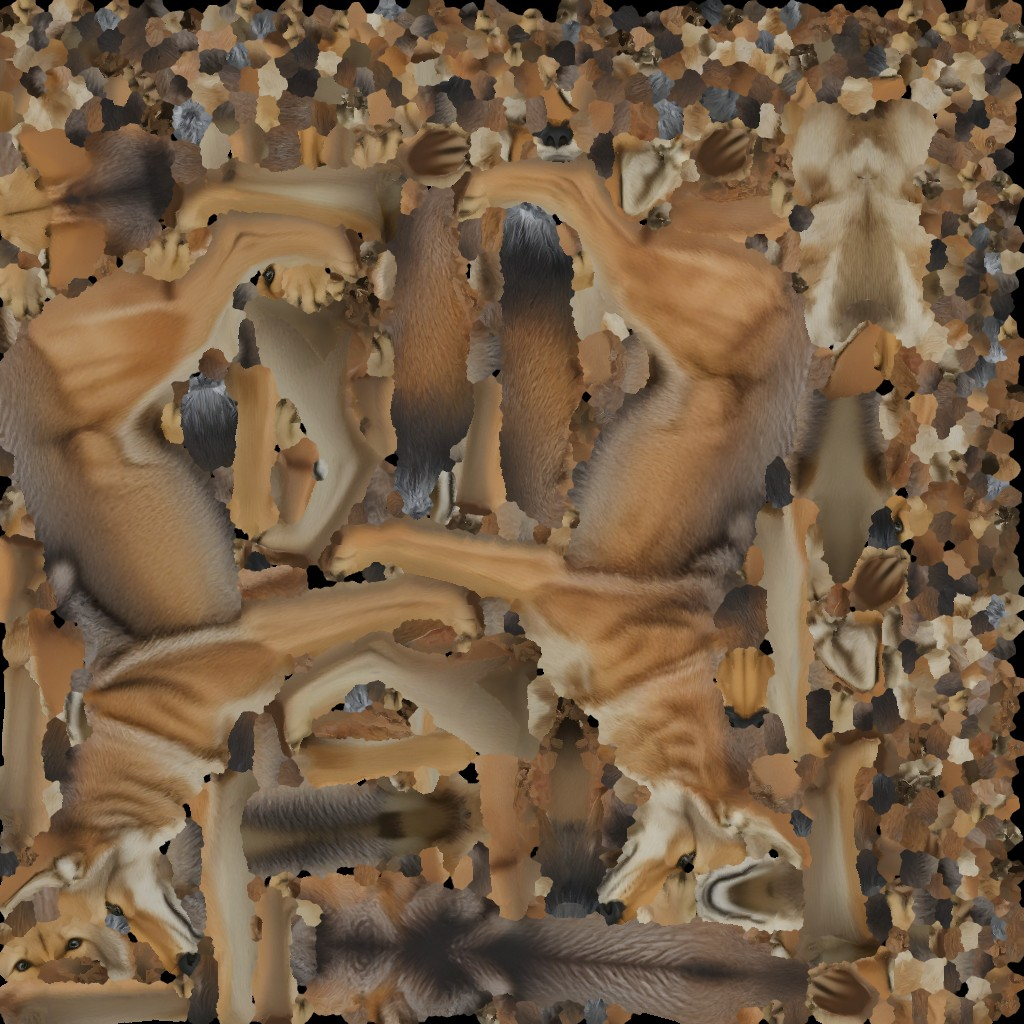
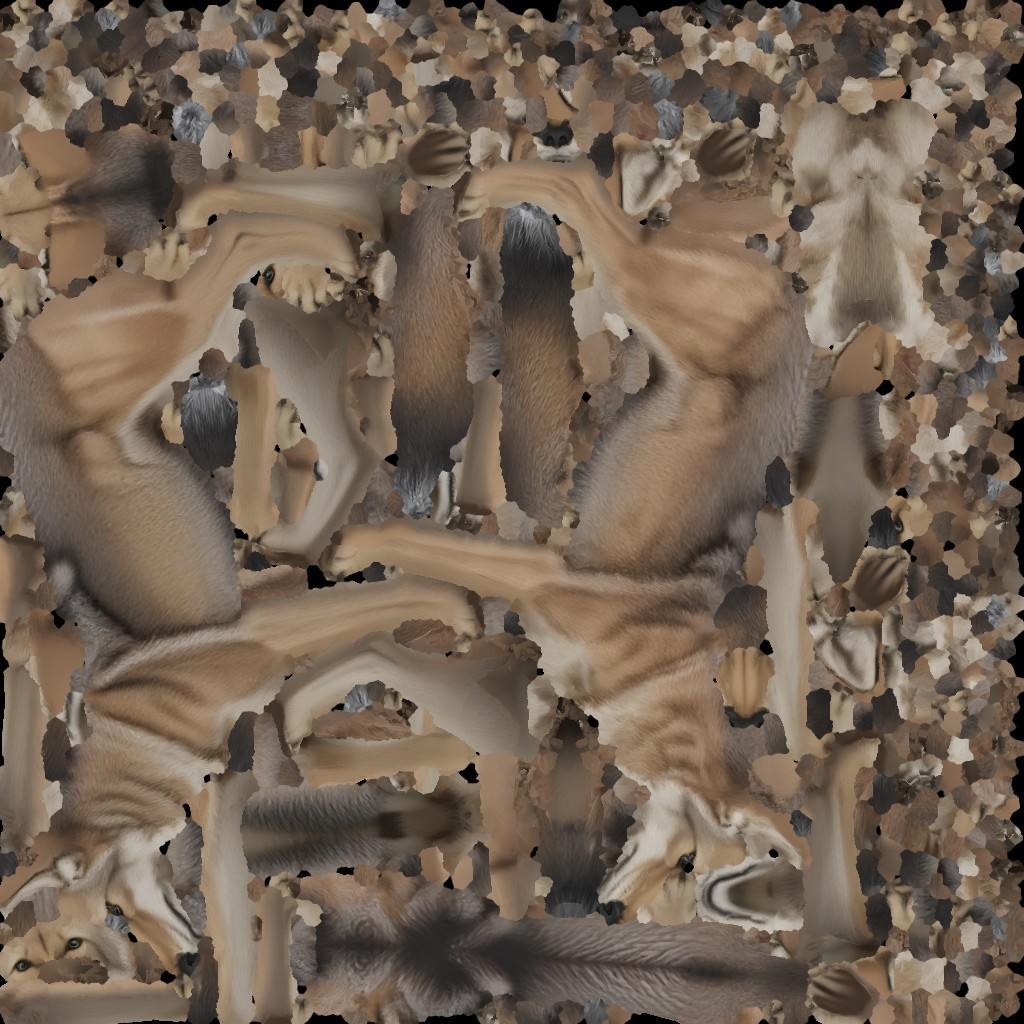
a3: parallel preload, spine flex multiplier for authored torsos (coyote, cougar 0.5), coyote grizzled grey grade

diff --git a/src/render/models/a3.ts b/src/render/models/a3.ts
@@ -15,9 +15,11 @@ export interface A3Asset {
 }
 
 /** Per species pose tuning of the authored mesh (see ModelDef.a3): graze head angle multiplier, forebody pitch (rad) and neck drop (m). */
-export const A3_TUNE: Record<string, { grazeK?: number; grazePitch?: number; grazeDrop?: number; antlerShift?: [number, number, number]; antlerScale?: number }> = {
+export const A3_TUNE: Record<string, { grazeK?: number; grazePitch?: number; grazeDrop?: number; antlerShift?: [number, number, number]; antlerScale?: number; spineK?: number }> = {
   bison: { grazeK: 1.3, grazePitch: 0.12, grazeDrop: 0.12 },
   muledeer: { antlerShift: [0.12, 0.07, 0], antlerScale: 1.15 },
+  coyote: { spineK: 0.5 },
+  cougar: { spineK: 0.5 },
 };
 
 const assets = new Map<string, A3Asset>();
@@ -75,11 +77,22 @@ async function loadOne(key: string): Promise<void> {
 
 /** Loads the authored meshes this page asked for. A failed load is logged and that species keeps its procedural near LOD. */
 export async function preloadA3(): Promise<void> {
-  for (const key of wanted()) {
-    try {
-      await loadOne(key);
-    } catch (e) {
-      console.warn('a3: could not load', key, e);
-    }
-  }
+  // all species at once (each is a small json, a bin and two images): the page start waits for the slowest, not the sum
+  await Promise.all(
+    wanted().map(async (key) => {
+      try {
+        await loadOne(key);
+      } catch (e) {
+        console.warn('a3: could not load', key, e);
+      }
+    }),
+  );
+}
+
+/** The pose tuning of a species, with the `?a3spine=<k>` probe override (spine flex multiplier) for tuning by eye. */
+export function a3Tune(key: string): { grazeK?: number; grazePitch?: number; grazeDrop?: number; antlerShift?: [number, number, number]; antlerScale?: number; spineK?: number } {
+  const t = { ...A3_TUNE[key] };
+  const q = typeof location === 'undefined' ? null : new URLSearchParams(location.search).get('a3spine');
+  if (q !== null && Number.isFinite(Number(q))) t.spineK = Number(q);
+  return t;
 }

diff --git a/src/render/models/shader.ts b/src/render/models/shader.ts
@@ -98,7 +98,7 @@ function lodDefines(def: ModelDef | undefined, variant: Variant): string[] {
     `#define FUR_STREAK ${f(fur?.streak ?? 0)}`, `#define FUR_MOTTLE ${f(fur?.mottle ?? 0)}`, `#define FUR_MOTTLE_SCALE ${f(fur?.mottleScale ?? 7)}`, `#define FUR_INDIV ${f(fur?.indiv ?? 0)}`,
     `#define A3SKIN ${variant === 'near' && def?.a3 ? 1 : 0}`,
     // a3 graze: the head angle multiplier, the forebody pitch down and the neck drop (m) while grazing (an authored head is shorter than the procedural one)
-    `#define A3_DN ${f(variant === 'near' ? def?.a3?.grazeK ?? 1 : 1)}`, `#define A3_PITCH ${f(variant === 'near' ? def?.a3?.grazePitch ?? 0 : 0)}`, `#define A3_DROP ${f(variant === 'near' ? def?.a3?.grazeDrop ?? 0 : 0)}`,
+    `#define A3_SPINE ${f(variant === 'near' ? def?.a3?.spineK ?? 1 : 1)}`, `#define A3_DN ${f(variant === 'near' ? def?.a3?.grazeK ?? 1 : 1)}`, `#define A3_PITCH ${f(variant === 'near' ? def?.a3?.grazePitch ?? 0 : 0)}`, `#define A3_DROP ${f(variant === 'near' ? def?.a3?.grazeDrop ?? 0 : 0)}`,
     `#define SHELL ${variant === 'near' && sh ? 1 : 0}`,
     `#define SHELL_SCALE ${f(sh?.scale ?? 30)}`, `#define SHELL_ALONG ${f(sh?.along ?? 0.5)}`, `#define SHELL_SPARSE ${f(sh?.sparse ?? 0.4)}`,
     `#define SHELL_D0 ${f(sh?.d0 ?? 30)}`, `#define SHELL_D1 ${f(sh?.d1 ?? 50)}`,
@@ -697,8 +697,8 @@ void tgAnimate(inout vec3 p, inout vec3 n) {
   {
     // (legmath.ts bodyMotion) flexion at the gathered phase, the hips and shoulders twisting half a beat later
     float wSp = tgGW.y * SPINE_TROT + tgGW.z;
-    tgSpA = SPINE_A * wSp * cos(cyc + SPINE_PHASE);
-    tgSpR = SPINE_R * wSp * sin(cyc + SPINE_PHASE - 0.04);
+    tgSpA = SPINE_A * A3_SPINE * wSp * cos(cyc + SPINE_PHASE);
+    tgSpR = SPINE_R * A3_SPINE * wSp * sin(cyc + SPINE_PHASE - 0.04);
   }
 #endif
 #endif

diff --git a/src/render/models/index.ts b/src/render/models/index.ts
@@ -12,7 +12,7 @@ import { buildHawk } from './hawk';
 import { buildMuleDeer } from './muledeer';
 import { buildBeaver } from './beaver';
 import type { ModelDef } from './types';
-import { A3_TUNE, getA3 } from './a3';
+import { a3Tune, getA3 } from './a3';
 
 export type { ModelDef, AnimParams } from './types';
 
@@ -44,8 +44,8 @@ export function getModel(sp: number): ModelDef | null {
     // a3 spike (?a3=1): the authored mesh replaces the procedural near LOD of the species that have one
     const a3 = key !== undefined ? getA3(key) : null;
     if (a3) {
-      m.nearGeometry = a3.whiteUV && m.nearGeometry ? withAntlers(m.nearGeometry, a3.geometry, a3.whiteUV, A3_TUNE[key!]?.antlerShift ?? [0, 0, 0], A3_TUNE[key!]?.antlerScale ?? 1, m.seasonal?.antlerBase ?? [0, 0, 0]) : a3.geometry;
-      m.a3 = { map: a3.map, normalMap: a3.normalMap ?? undefined, ...A3_TUNE[key!] };
+      m.nearGeometry = a3.whiteUV && m.nearGeometry ? withAntlers(m.nearGeometry, a3.geometry, a3.whiteUV, a3Tune(key!).antlerShift ?? [0, 0, 0], a3Tune(key!).antlerScale ?? 1, m.seasonal?.antlerBase ?? [0, 0, 0]) : a3.geometry;
+      m.a3 = { map: a3.map, normalMap: a3.normalMap ?? undefined, ...a3Tune(key!) };
       tintFarTo(m, a3.avg);
     }
     cache.set(sp, m);

diff --git a/src/render/models/types.ts b/src/render/models/types.ts
@@ -283,7 +283,7 @@ export interface ModelDef {
    * a3 spike: the near LOD is an authored mesh (tools/import_animal.py + tools/label_animal.py) with an albedo and a normal map. Its leg and tail
    * vertices carry a skin blend in aPart.w (0 = follows its bone, 1 = follows the body) so the continuous skin does not tear at the hip.
    */
-  a3?: { map: THREE.Texture; normalMap?: THREE.Texture; grazeK?: number; grazePitch?: number; grazeDrop?: number; /** where the procedural antlers sit on the authored head: offset of their base (m) and a scale about it */ antlerShift?: [number, number, number]; antlerScale?: number };
+  a3?: { map: THREE.Texture; normalMap?: THREE.Texture; grazeK?: number; grazePitch?: number; grazeDrop?: number; /** where the procedural antlers sit on the authored head: offset of their base (m) and a scale about it */ antlerShift?: [number, number, number]; antlerScale?: number; /** multiplies the gallop spine flex and twist (an authored torso is longer and stiffer than the procedural loft); default 1 */ spineK?: number };
   /** Camera distance range (m) of the dithered cross-fade from the near to the far LOD. */
   lod?: { d0: number; d1: number };
   fur?: FurDef;
